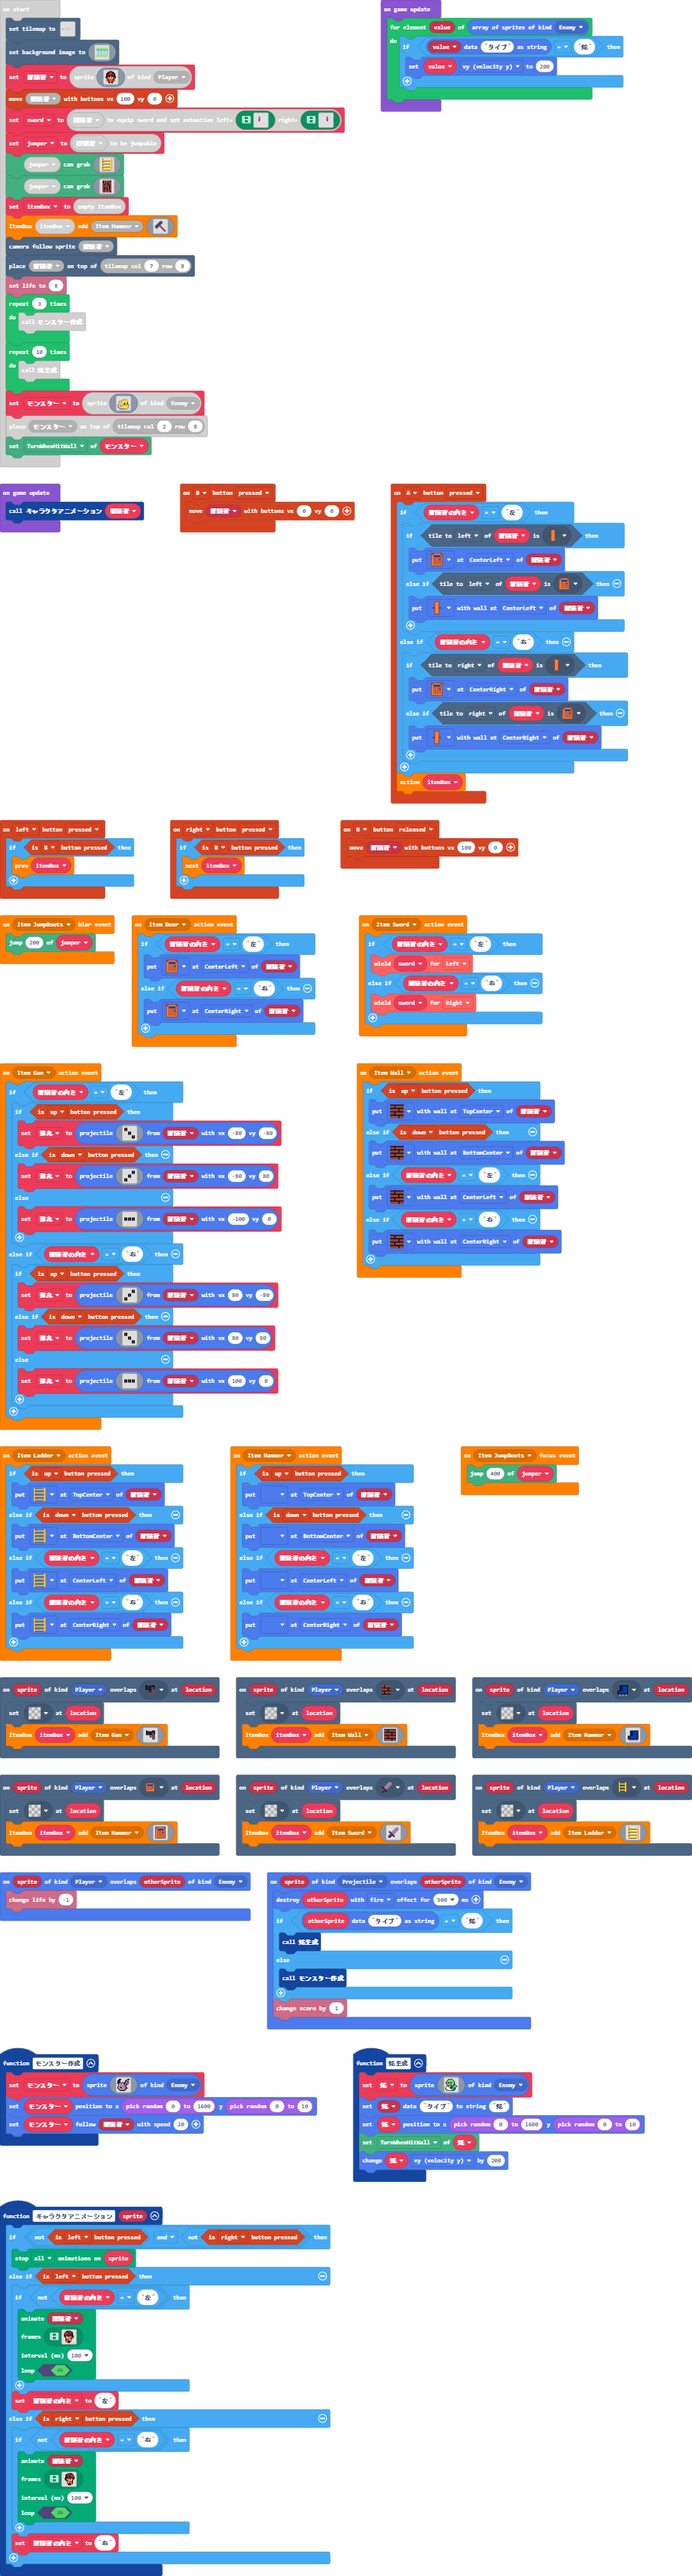
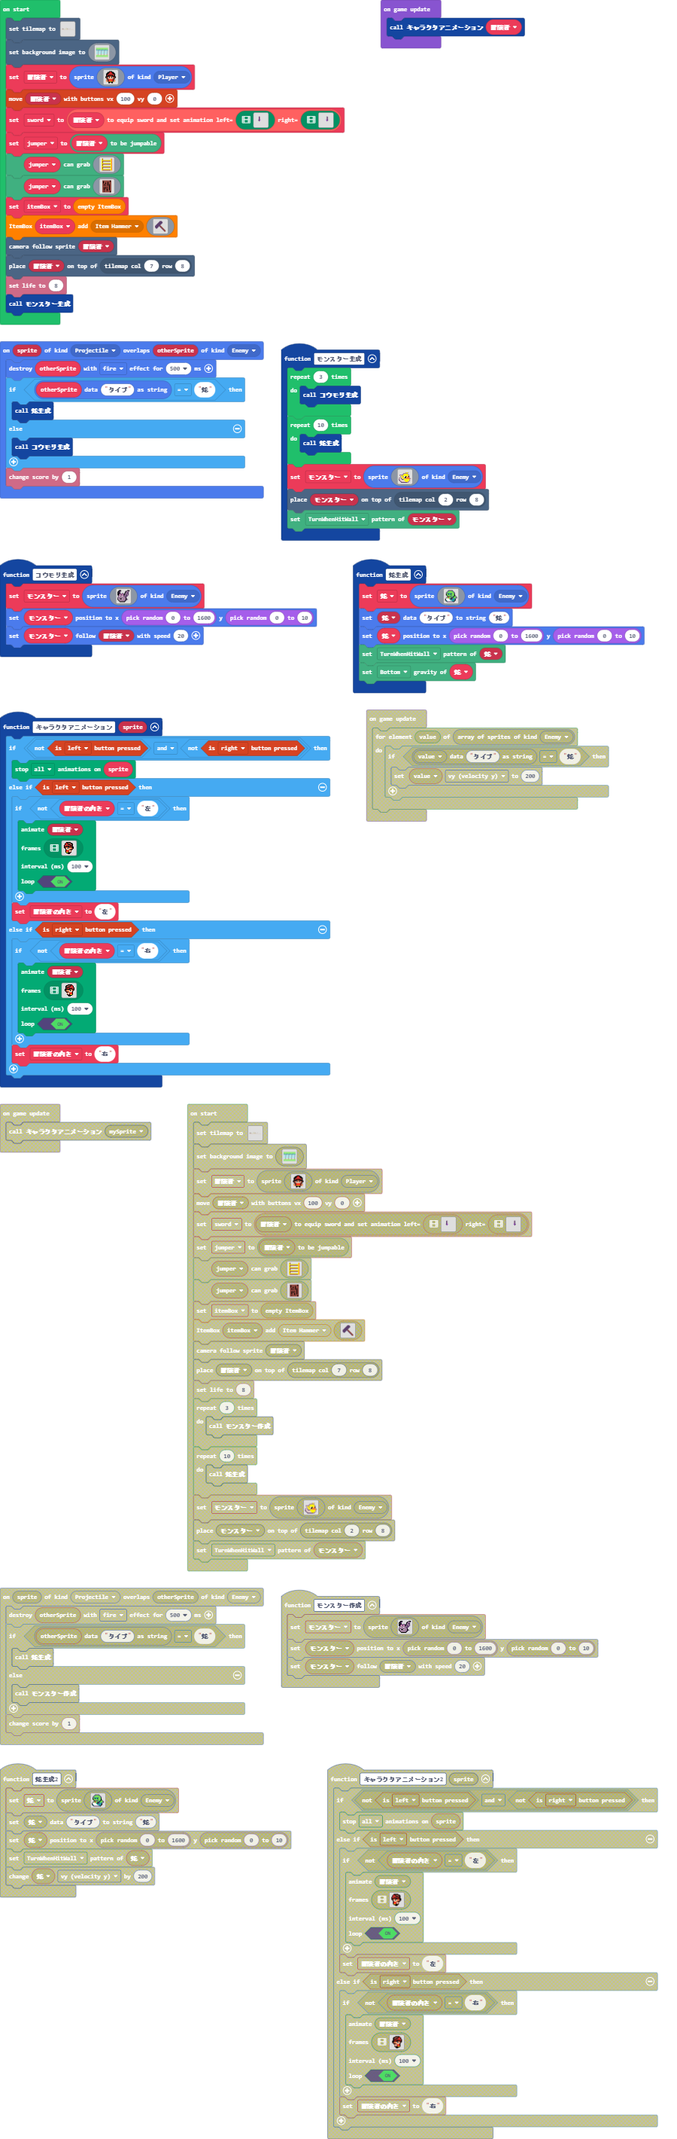
Update main.blocks, main.ts, behavior.ts

diff --git a/main.ts b/main.ts
@@ -10,28 +10,6 @@ enum ItemKind {
 namespace SpriteKind {
     export const Items = SpriteKind.create()
 }
-function モンスター作成 () {
-    モンスター = sprites.create(img`
-        . . f f f . . . . . . . . f f f 
-        . f f c c . . . . . . f c b b c 
-        f f c c . . . . . . f c b b c . 
-        f c f c . . . . . . f b c c c . 
-        f f f c c . c c . f c b b c c . 
-        f f c 3 c c 3 c c f b c b b c . 
-        f f b 3 b c 3 b c f b c c b c . 
-        . c b b b b b b c b b c c c . . 
-        . c 1 b b b 1 b b c c c c . . . 
-        c b b b b b b b b b c c . . . . 
-        c b c b b b c b b b b f . . . . 
-        f b 1 f f f 1 b b b b f c . . . 
-        f b b b b b b b b b b f c c . . 
-        . f b b b b b b b b c f . . . . 
-        . . f b b b b b b c f . . . . . 
-        . . . f f f f f f f . . . . . . 
-        `, SpriteKind.Enemy)
-    モンスター.setPosition(randint(0, 1600), randint(0, 10))
-    モンスター.follow(冒険者, 20)
-}
 controller.B.onEvent(ControllerButtonEvent.Pressed, function () {
     controller.moveSprite(冒険者, 0, 0)
 })
@@ -59,6 +37,34 @@ scene.onOverlapTile(SpriteKind.Player, assets.tile`jump_boots`, function (sprite
     tiles.setTileAt(location, assets.tile`transparency16`)
     itemBox.add(ItemKind.JumpBoots, assets.tile`jump_boots`)
 })
+function モンスター生成 () {
+    for (let index = 0; index < 3; index++) {
+        コウモリ生成()
+    }
+    for (let index = 0; index < 10; index++) {
+        蛇生成()
+    }
+    モンスター = sprites.create(img`
+        . . . . . . . . . . . . . . . . 
+        . . . . . . . . . . . . . . . . 
+        . . . . . . . . . b 5 5 b . . . 
+        . . . . . . b b b b b b . . . . 
+        . . . . . b b 5 5 5 5 5 b . . . 
+        . b b b b b 5 5 5 5 5 5 5 b . . 
+        . b d 5 b 5 5 5 5 5 5 5 5 b . . 
+        . . b 5 5 b 5 d 1 f 5 d 4 f . . 
+        . . b d 5 5 b 1 f f 5 4 4 c . . 
+        b b d b 5 5 5 d f b 4 4 4 4 b . 
+        b d d c d 5 5 b 5 4 4 4 4 4 4 b 
+        c d d d c c b 5 5 5 5 5 5 5 b . 
+        c b d d d d d 5 5 5 5 5 5 5 b . 
+        . c d d d d d d 5 5 5 5 5 d b . 
+        . . c b d d d d d 5 5 5 b b . . 
+        . . . c c c c c c c c b b . . . 
+        `, SpriteKind.Enemy)
+    tiles.placeOnTile(モンスター, tiles.getTileLocation(2, 8))
+    behavior.setPattern(モンスター, behavior.Pattern.TurnWhenHitWall)
+}
 itembox.util.onEvent(ItemKind.Door, function () {
     if (冒険者の向き == "左") {
         creator.putTile(冒険者, creator.Direction.CenterLeft, myTiles.tile11)
@@ -122,7 +128,7 @@ function 蛇生成 () {
     sprites.setDataString(蛇, "タイプ", "蛇")
     蛇.setPosition(randint(0, 1600), randint(0, 10))
     behavior.setPattern(蛇, behavior.Pattern.TurnWhenHitWall)
-    蛇.vy += 200
+    behavior.setGravity(蛇, behavior.Gravity.Bottom)
 }
 scene.onOverlapTile(SpriteKind.Player, assets.tile`door`, function (sprite, location) {
     tiles.setTileAt(location, assets.tile`transparency16`)
@@ -132,6 +138,28 @@ scene.onOverlapTile(SpriteKind.Player, assets.tile`ladder`, function (sprite, lo
     tiles.setTileAt(location, assets.tile`transparency16`)
     itemBox.add(ItemKind.Ladder, assets.tile`ハシゴタイル`)
 })
+function コウモリ生成 () {
+    モンスター = sprites.create(img`
+        . . f f f . . . . . . . . f f f 
+        . f f c c . . . . . . f c b b c 
+        f f c c . . . . . . f c b b c . 
+        f c f c . . . . . . f b c c c . 
+        f f f c c . c c . f c b b c c . 
+        f f c 3 c c 3 c c f b c b b c . 
+        f f b 3 b c 3 b c f b c c b c . 
+        . c b b b b b b c b b c c c . . 
+        . c 1 b b b 1 b b c c c c . . . 
+        c b b b b b b b b b c c . . . . 
+        c b c b b b c b b b b f . . . . 
+        f b 1 f f f 1 b b b b f c . . . 
+        f b b b b b b b b b b f c c . . 
+        . f b b b b b b b b c f . . . . 
+        . . f b b b b b b c f . . . . . 
+        . . . f f f f f f f . . . . . . 
+        `, SpriteKind.Enemy)
+    モンスター.setPosition(randint(0, 1600), randint(0, 10))
+    モンスター.follow(冒険者, 20)
+}
 controller.B.onEvent(ControllerButtonEvent.Released, function () {
     controller.moveSprite(冒険者, 100, 0)
 })
@@ -333,7 +361,7 @@ sprites.onOverlap(SpriteKind.Projectile, SpriteKind.Enemy, function (sprite, oth
     if (sprites.readDataString(otherSprite, "タイプ") == "蛇") {
         蛇生成()
     } else {
-        モンスター作成()
+        コウモリ生成()
     }
     info.changeScoreBy(1)
 })
@@ -342,8 +370,8 @@ sprites.onOverlap(SpriteKind.Player, SpriteKind.Enemy, function (sprite, otherSp
 })
 let 蛇: Sprite = null
 let 弾丸: Sprite = null
-let 冒険者の向き = ""
 let モンスター: Sprite = null
+let 冒険者の向き = ""
 let itemBox: itembox.items.ItemBox = null
 let jumper: jumpable.Jumpable = null
 let sword: weapons.sword.Sword = null
@@ -499,39 +527,7 @@ itemBox.add(ItemKind.Hammer, assets.tile`hummer`)
 scene.cameraFollowSprite(冒険者)
 tiles.placeOnTile(冒険者, tiles.getTileLocation(7, 8))
 info.setLife(8)
-for (let index = 0; index < 3; index++) {
-    モンスター作成()
-}
-for (let index = 0; index < 10; index++) {
-    蛇生成()
-}
-モンスター = sprites.create(img`
-    . . . . . . . . . . . . . . . . 
-    . . . . . . . . . . . . . . . . 
-    . . . . . . . . . b 5 5 b . . . 
-    . . . . . . b b b b b b . . . . 
-    . . . . . b b 5 5 5 5 5 b . . . 
-    . b b b b b 5 5 5 5 5 5 5 b . . 
-    . b d 5 b 5 5 5 5 5 5 5 5 b . . 
-    . . b 5 5 b 5 d 1 f 5 d 4 f . . 
-    . . b d 5 5 b 1 f f 5 4 4 c . . 
-    b b d b 5 5 5 d f b 4 4 4 4 b . 
-    b d d c d 5 5 b 5 4 4 4 4 4 4 b 
-    c d d d c c b 5 5 5 5 5 5 5 b . 
-    c b d d d d d 5 5 5 5 5 5 5 b . 
-    . c d d d d d d 5 5 5 5 5 d b . 
-    . . c b d d d d d 5 5 5 b b . . 
-    . . . c c c c c c c c b b . . . 
-    `, SpriteKind.Enemy)
-tiles.placeOnTile(モンスター, tiles.getTileLocation(2, 8))
-behavior.setPattern(モンスター, behavior.Pattern.TurnWhenHitWall)
-game.onUpdate(function () {
-    for (let value of sprites.allOfKind(SpriteKind.Enemy)) {
-        if (sprites.readDataString(value, "タイプ") == "蛇") {
-            value.vy = 200
-        }
-    }
-})
+モンスター生成()
 game.onUpdate(function () {
     キャラクタアニメーション(冒険者)
 })

diff --git a/behavior.ts b/behavior.ts
@@ -11,8 +11,20 @@ namespace behavior {
         Jump
     }
 
+    //% block="set $gravity gravity of $sprite=variables_get(aEnemy)"
+    export function setGravity(sprite: Sprite, gravity: Gravity) {
+        sprites.setDataNumber(sprite, "gravity", gravity);
+    }
 
-    //% block="set $pattern of $sprite=variables_get(aEnemy)"
+    game.onUpdate(function () {
+        for (let target of sprites.allOfKind(SpriteKind.Enemy)) {
+            if (sprites.readDataNumber(target, "gravity") == Gravity.Bottom) {
+                target.vy = 200
+            }
+        }
+    })
+
+    //% block="set $pattern pattern of $sprite=variables_get(aEnemy)"
     export function setPattern(sprite: Sprite, pattern: Pattern) {
 
         sprites.setDataNumber(sprite, "pattern", pattern);
